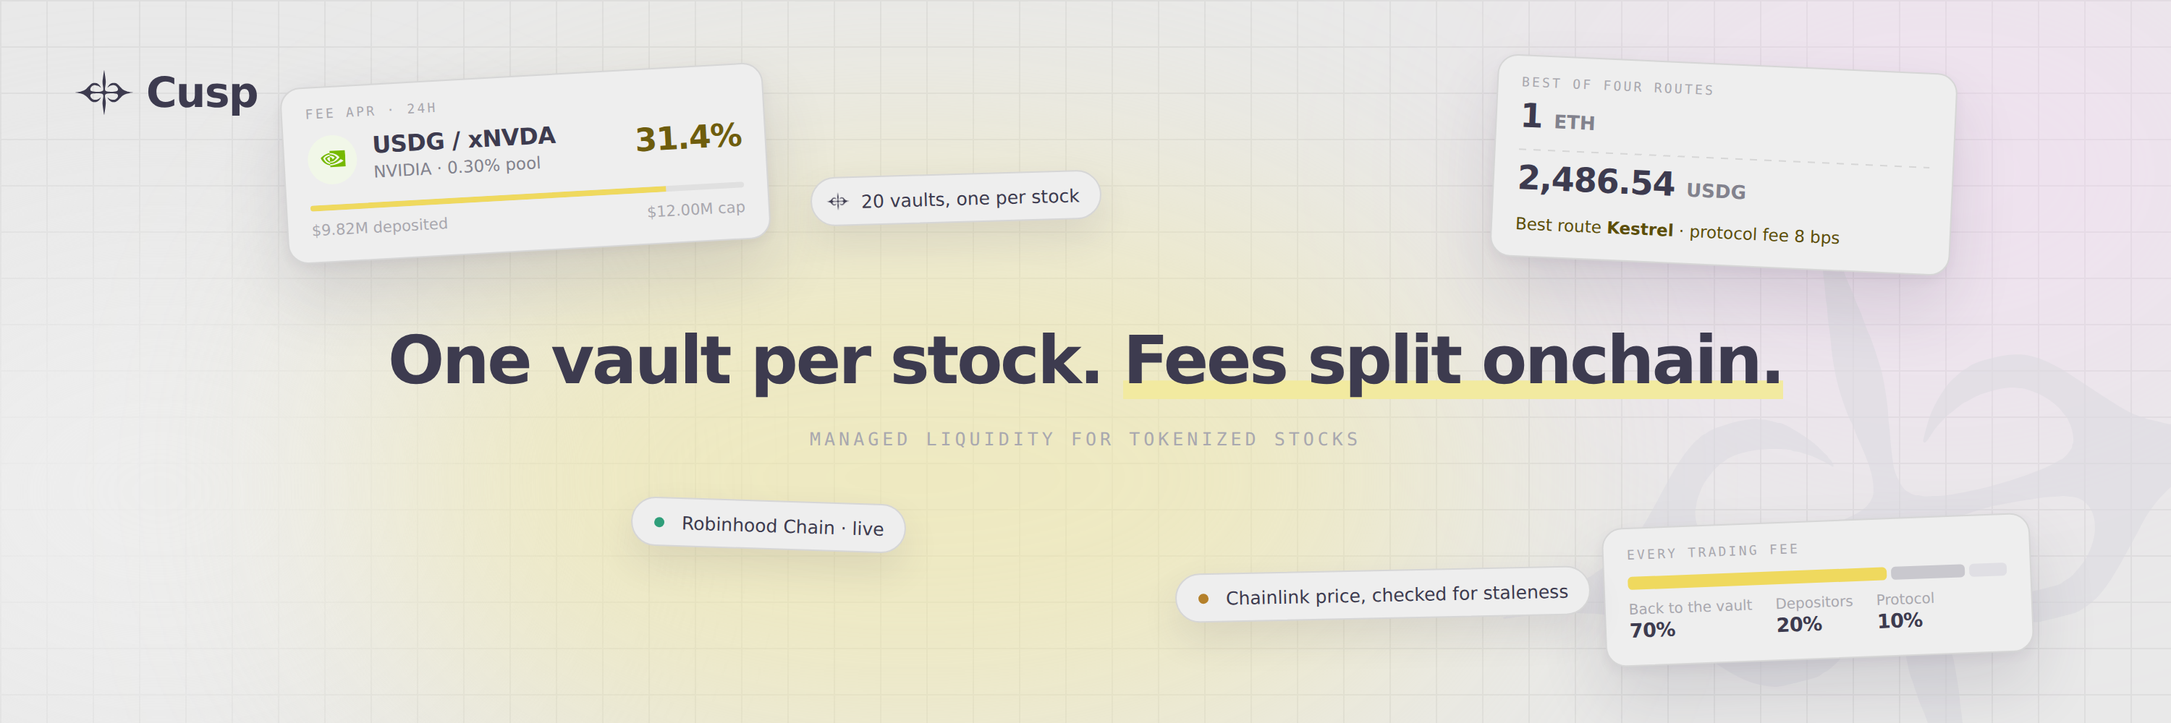
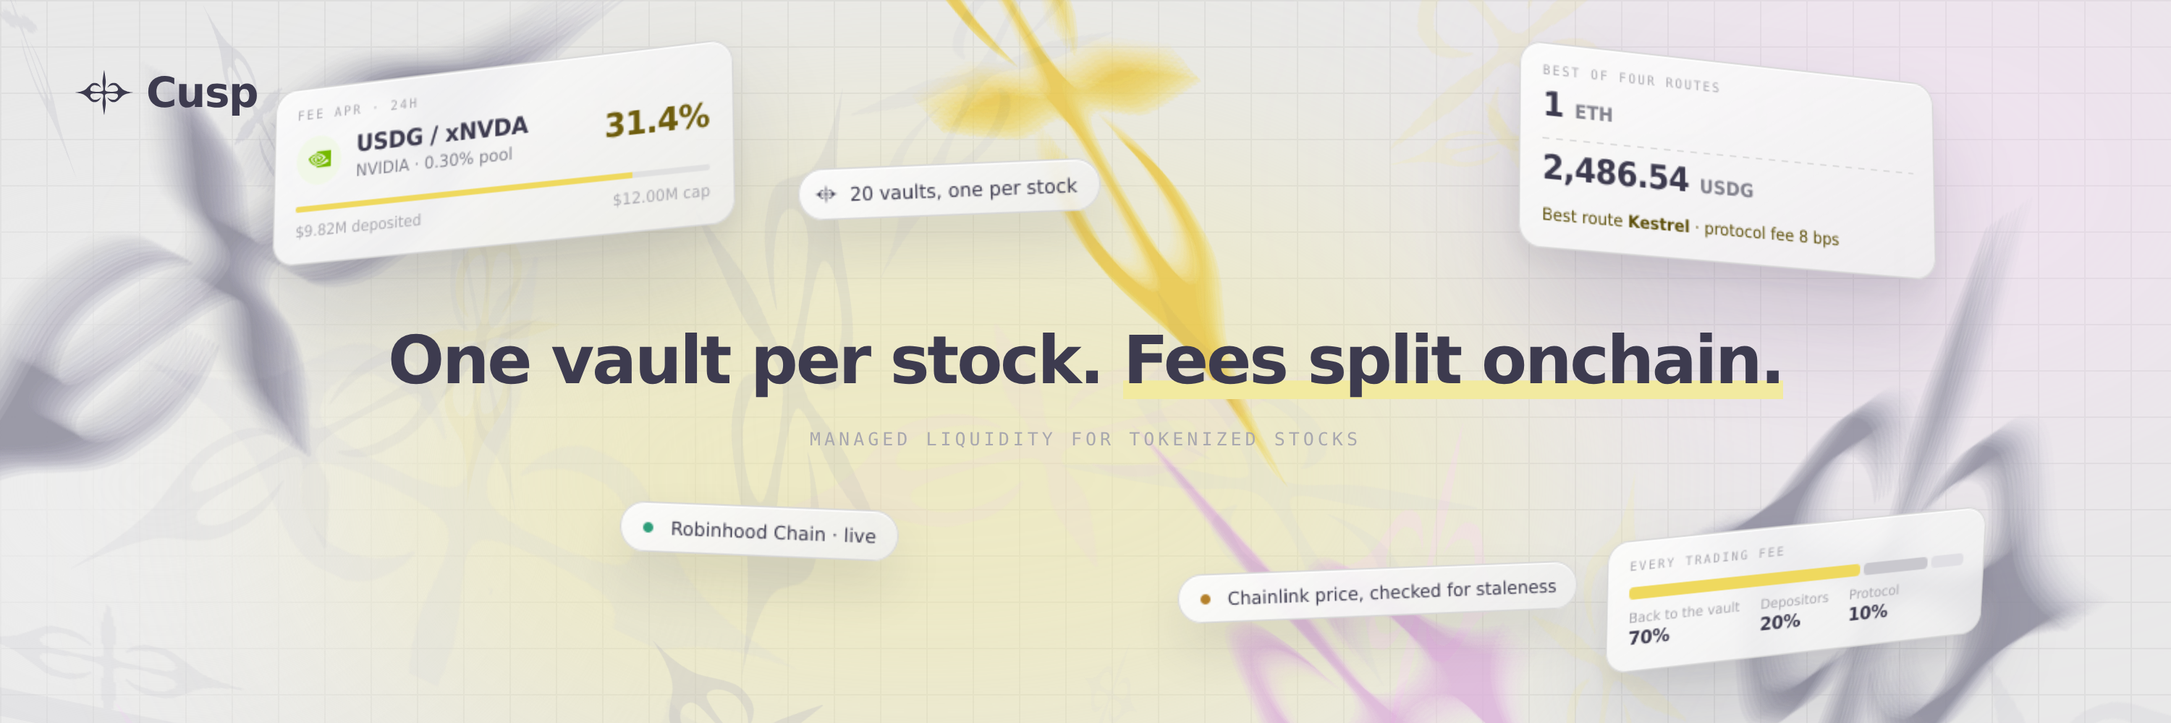
Yellow footer headings, and a header built in real depth
The footer's four column headings — products, platform, resources, legal —
take the accent. They go to weight 700 with it, because a pastel on this grey
needs the extra stroke to hold at 11.8px.

The X header stops being a flat collage. It has a perspective now, and every
card sits on its own plane: the vault row 70px forward and turned in, the
quote 20px back and turned the other way, the fee split 40px behind and
leaning up from below, each pill on its own shallow plane between them. They
are glass rather than card stock — a translucent fill over what is behind
them, a blurred backdrop, a lit top edge, and a shadow whose spread follows
how far back the card sits.

Behind all of it, the mark itself, sixty-four times. Four of those are
extruded stacks — the same path stepped back along a depth axis, opacity and
blur following the step, which is what makes a flat mask read as a solid
rather than a sticker — and the other twenty are loose, each at its own z,
its own pair of out-of-plane rotations and its own uneven scale, so none of
them is the logo straight on and all of them are unmistakably it. Blur stands
in for depth of field.

Claude-Session: https://claude.ai/code/session_01WE3rjawbSAaoLq39GWadM9

diff --git a/cusp-site/brand/x-header.html b/cusp-site/brand/x-header.html
@@ -28,24 +28,31 @@
       linear-gradient(to right, var(--grid) 0 1px, transparent 1px),
       linear-gradient(to bottom, var(--grid) 0 1px, transparent 1px);
     background-size:32px 32px;
+    perspective:1500px; perspective-origin:50% 46%;
+    transform-style:preserve-3d;
   }
-  /* two soft washes, so the ground is not flat grey across 1500px */
-  .glow { position:absolute; border-radius:50%; filter:blur(90px); pointer-events:none; }
-  .g1 { width:760px; height:420px; left:250px; top:120px; background:rgba(242,234,160,.55); }
-  .g2 { width:520px; height:360px; left:1080px; top:-60px; background:rgba(255,207,254,.28); }
-  .g3 { width:460px; height:320px; left:-120px; top:180px; background:rgba(238,238,238,.9); }
 
-  /* the mark, oversized and faint behind everything */
-  .ghost {
-    position:absolute; right:-90px; bottom:-140px; width:560px; height:560px;
-    background:#DCDBE1; opacity:.55;
+  /* ---- the mark, shattered through the depth of the frame ----
+     Thirty copies of the one path, each at its own z, its own pair of
+     out-of-plane rotations and its own uneven scale, so none of them is the
+     logo straight on and all of them are unmistakably it. Blur stands in for
+     depth of field: the far ones are soft, the near ones sharp. */
+  .field { position:absolute; inset:0; transform-style:preserve-3d; pointer-events:none; }
+  .sh {
+    position:absolute; display:block;
     -webkit-mask:url(../mark.svg) center / contain no-repeat;
     mask:url(../mark.svg) center / contain no-repeat;
-    transform:rotate(-14deg);
+    mix-blend-mode:multiply;
   }
 
+  /* two soft washes, so the ground is not flat grey across 1500px */
+  .glow { position:absolute; border-radius:50%; filter:blur(95px); pointer-events:none; }
+  .g1 { width:820px; height:440px; left:230px; top:110px; background:rgba(242,234,160,.5); }
+  .g2 { width:540px; height:380px; left:1060px; top:-70px; background:rgba(255,207,254,.26); }
+  .g3 { width:480px; height:330px; left:-130px; top:170px; background:rgba(238,238,238,.85); }
+
   /* ---- the lockup, top left ---- */
-  .lock { position:absolute; left:52px; top:44px; display:flex; align-items:center; gap:9px; }
+  .lock { position:absolute; left:52px; top:44px; display:flex; align-items:center; gap:9px; z-index:6; }
   .lock i { display:block; width:40px; height:40px; background:var(--band);
             -webkit-mask:url(../mark.svg) center / contain no-repeat;
             mask:url(../mark.svg) center / contain no-repeat; }
@@ -53,27 +60,38 @@
 
   /* ---- the line, on the centre line ---- */
   .say {
-    position:absolute; left:0; right:0; top:224px; text-align:center;
+    position:absolute; left:0; right:0; top:224px; text-align:center; z-index:6;
     font-size:46px; font-weight:600; letter-spacing:-.035em; line-height:1.1;
   }
   .say u { text-decoration:none; box-shadow:inset 0 -.28em 0 var(--accent-fill); }
   .sub {
-    position:absolute; left:0; right:0; top:296px; text-align:center;
+    position:absolute; left:0; right:0; top:296px; text-align:center; z-index:6;
     font-family:var(--mono); font-size:12.5px; letter-spacing:.2em;
     text-transform:uppercase; color:var(--dim);
   }
 
-  /* ---- the floating cards ---- */
+  /* ---- the floating cards, each on its own plane ----
+     Glass rather than solid: a translucent fill over the field, a blurred
+     backdrop, a lit top edge and a shadow whose spread follows how far back
+     the card sits. */
   .card {
-    position:absolute; background:var(--card); border:1px solid var(--line);
-    border-radius:14px; padding:14px 16px 15px;
-    box-shadow:0 24px 46px rgba(61,59,79,.14), 0 3px 8px rgba(61,59,79,.06);
+    position:absolute; z-index:5;
+    background:linear-gradient(150deg, rgba(252,252,252,.94), rgba(238,238,238,.82));
+    border:1px solid rgba(255,255,255,.85);
+    outline:1px solid var(--line); outline-offset:-1px;
+    border-radius:16px; padding:14px 16px 15px;
+    backdrop-filter:blur(7px) saturate(1.15);
+    box-shadow:
+      0 40px 70px rgba(61,59,79,.17),
+      0 8px 18px rgba(61,59,79,.08),
+      inset 0 1px 0 rgba(255,255,255,.9);
   }
   .k { display:block; font-family:var(--mono); font-size:9px; letter-spacing:.18em;
        text-transform:uppercase; color:var(--dim); }
 
-  /* a vault row, top left */
-  .vault { left:196px; top:52px; width:334px; transform:rotate(-3.2deg); }
+  /* a vault row, top left — tilted away at the top, nearest the reader */
+  .vault { left:196px; top:52px; width:334px;
+           transform:translateZ(70px) rotateX(9deg) rotateY(-14deg) rotateZ(-2.4deg); }
   .vault .row { display:flex; align-items:center; gap:11px; }
   .vault .ic { width:34px; height:34px; flex:none; border-radius:50%; background:#F1F7E8;
                display:grid; place-items:center; color:#76B900; }
@@ -87,8 +105,9 @@
   .vault .bar i { display:block; height:100%; width:82%; background:var(--accent-glow); }
   .vault .cap { display:flex; justify-content:space-between; margin-top:8px; font-size:10.5px; color:var(--dim); }
 
-  /* a quote, top right */
-  .quote { right:150px; top:44px; width:318px; transform:rotate(2.6deg); }
+  /* a quote, top right — turned the other way, set further back */
+  .quote { right:150px; top:44px; width:318px;
+           transform:translateZ(20px) rotateX(7deg) rotateY(15deg) rotateZ(2deg); }
   .leg { display:flex; align-items:baseline; gap:8px; margin-top:5px; }
   .leg b { font-size:23px; font-weight:600; letter-spacing:-.025em; }
   .leg span { font-size:13px; font-weight:600; color:var(--muted); }
@@ -96,27 +115,30 @@
   .best { margin-top:11px; font-size:11.5px; color:var(--accent-ink); }
   .best b { font-weight:700; }
 
-  /* the split, bottom right */
-  .split { right:96px; bottom:44px; width:296px; transform:rotate(-2.2deg); }
+  /* the split, bottom right — furthest back, leaning up from below */
+  .split { right:96px; bottom:40px; width:296px;
+           transform:translateZ(-40px) rotateX(-11deg) rotateY(13deg) rotateZ(-1.6deg); }
   .split .bars { display:flex; gap:3px; margin-top:9px; }
   .split .bars i { height:9px; border-radius:3px; }
   .split dl { display:flex; gap:16px; margin-top:9px; }
   .split dt { font-size:10px; color:var(--dim); }
   .split dd { margin:1px 0 0; font-size:13.5px; font-weight:600; letter-spacing:-.02em; }
 
-  /* the pills */
+  /* the pills, on their own shallow planes */
   .pill {
-    position:absolute; display:inline-flex; align-items:center; gap:8px;
+    position:absolute; z-index:5; display:inline-flex; align-items:center; gap:8px;
     padding:8px 14px 8px 10px; border-radius:999px;
-    background:var(--card); border:1px solid var(--line);
-    box-shadow:0 12px 26px rgba(61,59,79,.11);
+    background:linear-gradient(150deg, rgba(252,252,252,.95), rgba(238,238,238,.86));
+    border:1px solid rgba(255,255,255,.85); outline:1px solid var(--line); outline-offset:-1px;
+    backdrop-filter:blur(6px);
+    box-shadow:0 18px 34px rgba(61,59,79,.13), inset 0 1px 0 rgba(255,255,255,.9);
     font-size:12.5px; font-weight:500; color:var(--ink); white-space:nowrap;
   }
   .pill i { width:16px; height:16px; border-radius:50%; flex:none; display:grid; place-items:center; }
   .pill .dot { width:7px; height:7px; border-radius:50%; background:#2F9E7A; }
-  .p1 { left:560px; top:120px; transform:rotate(-1.6deg); }
-  .p2 { left:436px; bottom:120px; transform:rotate(1.8deg); }
-  .p3 { left:812px; bottom:72px; transform:rotate(-1.2deg); }
+  .p1 { left:560px; top:120px; transform:translateZ(90px) rotateY(-9deg) rotateZ(-1.6deg); }
+  .p2 { left:436px; bottom:120px; transform:translateZ(46px) rotateY(-5deg) rotateZ(1.8deg); }
+  .p3 { left:812px; bottom:72px; transform:translateZ(-14px) rotateY(8deg) rotateZ(-1.2deg); }
   .pill .mk { width:16px; height:16px; background:var(--band);
               -webkit-mask:url(../mark.svg) center / contain no-repeat;
               mask:url(../mark.svg) center / contain no-repeat; }
@@ -127,7 +149,73 @@
   <div class="glow g3"></div>
   <div class="glow g1"></div>
   <div class="glow g2"></div>
-  <div class="ghost"></div>
+
+  <div class="field">
+      <i class="sh" style="left:-120px;top:-90px;width:520px;height:520px;background:#C6C5CE;opacity:0.084;filter:blur(9.0px);transform:translateZ(-300px) rotateX(-28deg) rotateY(38deg) rotateZ(-18deg) scale(1.35,0.85)"></i>
+      <i class="sh" style="left:-117px;top:-88px;width:520px;height:520px;background:#C6C5CE;opacity:0.104;filter:blur(8.2px);transform:translateZ(-274px) rotateX(-28deg) rotateY(38deg) rotateZ(-18deg) scale(1.35,0.85)"></i>
+      <i class="sh" style="left:-114px;top:-87px;width:520px;height:520px;background:#C6C5CE;opacity:0.123;filter:blur(7.4px);transform:translateZ(-248px) rotateX(-28deg) rotateY(38deg) rotateZ(-18deg) scale(1.35,0.85)"></i>
+      <i class="sh" style="left:-111px;top:-85px;width:520px;height:520px;background:#C6C5CE;opacity:0.143;filter:blur(6.5px);transform:translateZ(-222px) rotateX(-28deg) rotateY(38deg) rotateZ(-18deg) scale(1.35,0.85)"></i>
+      <i class="sh" style="left:-108px;top:-84px;width:520px;height:520px;background:#C6C5CE;opacity:0.163;filter:blur(5.7px);transform:translateZ(-196px) rotateX(-28deg) rotateY(38deg) rotateZ(-18deg) scale(1.35,0.85)"></i>
+      <i class="sh" style="left:-105px;top:-82px;width:520px;height:520px;background:#C6C5CE;opacity:0.182;filter:blur(4.9px);transform:translateZ(-170px) rotateX(-28deg) rotateY(38deg) rotateZ(-18deg) scale(1.35,0.85)"></i>
+      <i class="sh" style="left:-102px;top:-80px;width:520px;height:520px;background:#C6C5CE;opacity:0.202;filter:blur(4.1px);transform:translateZ(-144px) rotateX(-28deg) rotateY(38deg) rotateZ(-18deg) scale(1.35,0.85)"></i>
+      <i class="sh" style="left:-99px;top:-79px;width:520px;height:520px;background:#C6C5CE;opacity:0.221;filter:blur(3.3px);transform:translateZ(-118px) rotateX(-28deg) rotateY(38deg) rotateZ(-18deg) scale(1.35,0.85)"></i>
+      <i class="sh" style="left:-96px;top:-77px;width:520px;height:520px;background:#C6C5CE;opacity:0.241;filter:blur(2.5px);transform:translateZ(-92px) rotateX(-28deg) rotateY(38deg) rotateZ(-18deg) scale(1.35,0.85)"></i>
+      <i class="sh" style="left:-93px;top:-76px;width:520px;height:520px;background:#C6C5CE;opacity:0.261;filter:blur(1.6px);transform:translateZ(-66px) rotateX(-28deg) rotateY(38deg) rotateZ(-18deg) scale(1.35,0.85)"></i>
+      <i class="sh" style="left:-90px;top:-74px;width:520px;height:520px;background:#C6C5CE;opacity:0.28;filter:blur(0.8px);transform:translateZ(-40px) rotateX(-28deg) rotateY(38deg) rotateZ(-18deg) scale(1.35,0.85)"></i>
+      <i class="sh" style="left:-87px;top:-72px;width:520px;height:520px;background:#C6C5CE;opacity:0.3;filter:blur(0.0px);transform:translateZ(-14px) rotateX(-28deg) rotateY(38deg) rotateZ(-18deg) scale(1.35,0.85)"></i>
+      <i class="sh" style="left:1090px;top:150px;width:470px;height:470px;background:#BFBEC9;opacity:0.073;filter:blur(9.0px);transform:translateZ(-300px) rotateX(22deg) rotateY(-42deg) rotateZ(24deg) scale(0.85,1.45)"></i>
+      <i class="sh" style="left:1087px;top:152px;width:470px;height:470px;background:#BFBEC9;opacity:0.09;filter:blur(8.2px);transform:translateZ(-274px) rotateX(22deg) rotateY(-42deg) rotateZ(24deg) scale(0.85,1.45)"></i>
+      <i class="sh" style="left:1084px;top:154px;width:470px;height:470px;background:#BFBEC9;opacity:0.107;filter:blur(7.4px);transform:translateZ(-248px) rotateX(22deg) rotateY(-42deg) rotateZ(24deg) scale(0.85,1.45)"></i>
+      <i class="sh" style="left:1082px;top:156px;width:470px;height:470px;background:#BFBEC9;opacity:0.124;filter:blur(6.5px);transform:translateZ(-222px) rotateX(22deg) rotateY(-42deg) rotateZ(24deg) scale(0.85,1.45)"></i>
+      <i class="sh" style="left:1079px;top:158px;width:470px;height:470px;background:#BFBEC9;opacity:0.141;filter:blur(5.7px);transform:translateZ(-196px) rotateX(22deg) rotateY(-42deg) rotateZ(24deg) scale(0.85,1.45)"></i>
+      <i class="sh" style="left:1076px;top:160px;width:470px;height:470px;background:#BFBEC9;opacity:0.158;filter:blur(4.9px);transform:translateZ(-170px) rotateX(22deg) rotateY(-42deg) rotateZ(24deg) scale(0.85,1.45)"></i>
+      <i class="sh" style="left:1073px;top:161px;width:470px;height:470px;background:#BFBEC9;opacity:0.175;filter:blur(4.1px);transform:translateZ(-144px) rotateX(22deg) rotateY(-42deg) rotateZ(24deg) scale(0.85,1.45)"></i>
+      <i class="sh" style="left:1070px;top:163px;width:470px;height:470px;background:#BFBEC9;opacity:0.192;filter:blur(3.3px);transform:translateZ(-118px) rotateX(22deg) rotateY(-42deg) rotateZ(24deg) scale(0.85,1.45)"></i>
+      <i class="sh" style="left:1068px;top:165px;width:470px;height:470px;background:#BFBEC9;opacity:0.209;filter:blur(2.5px);transform:translateZ(-92px) rotateX(22deg) rotateY(-42deg) rotateZ(24deg) scale(0.85,1.45)"></i>
+      <i class="sh" style="left:1065px;top:167px;width:470px;height:470px;background:#BFBEC9;opacity:0.226;filter:blur(1.6px);transform:translateZ(-66px) rotateX(22deg) rotateY(-42deg) rotateZ(24deg) scale(0.85,1.45)"></i>
+      <i class="sh" style="left:1062px;top:169px;width:470px;height:470px;background:#BFBEC9;opacity:0.243;filter:blur(0.8px);transform:translateZ(-40px) rotateX(22deg) rotateY(-42deg) rotateZ(24deg) scale(0.85,1.45)"></i>
+      <i class="sh" style="left:1059px;top:171px;width:470px;height:470px;background:#BFBEC9;opacity:0.26;filter:blur(0.0px);transform:translateZ(-14px) rotateX(22deg) rotateY(-42deg) rotateZ(24deg) scale(0.85,1.45)"></i>
+      <i class="sh" style="left:520px;top:-150px;width:400px;height:400px;background:#EFD95E;opacity:0.062;filter:blur(9.0px);transform:translateZ(-300px) rotateX(-40deg) rotateY(-20deg) rotateZ(62deg) scale(1.7,0.7)"></i>
+      <i class="sh" style="left:522px;top:-147px;width:400px;height:400px;background:#EFD95E;opacity:0.079;filter:blur(8.0px);transform:translateZ(-274px) rotateX(-40deg) rotateY(-20deg) rotateZ(62deg) scale(1.7,0.7)"></i>
+      <i class="sh" style="left:524px;top:-145px;width:400px;height:400px;background:#EFD95E;opacity:0.097;filter:blur(7.0px);transform:translateZ(-248px) rotateX(-40deg) rotateY(-20deg) rotateZ(62deg) scale(1.7,0.7)"></i>
+      <i class="sh" style="left:527px;top:-142px;width:400px;height:400px;background:#EFD95E;opacity:0.114;filter:blur(6.0px);transform:translateZ(-222px) rotateX(-40deg) rotateY(-20deg) rotateZ(62deg) scale(1.7,0.7)"></i>
+      <i class="sh" style="left:529px;top:-140px;width:400px;height:400px;background:#EFD95E;opacity:0.132;filter:blur(5.0px);transform:translateZ(-196px) rotateX(-40deg) rotateY(-20deg) rotateZ(62deg) scale(1.7,0.7)"></i>
+      <i class="sh" style="left:531px;top:-137px;width:400px;height:400px;background:#EFD95E;opacity:0.15;filter:blur(4.0px);transform:translateZ(-170px) rotateX(-40deg) rotateY(-20deg) rotateZ(62deg) scale(1.7,0.7)"></i>
+      <i class="sh" style="left:533px;top:-134px;width:400px;height:400px;background:#EFD95E;opacity:0.167;filter:blur(3.0px);transform:translateZ(-144px) rotateX(-40deg) rotateY(-20deg) rotateZ(62deg) scale(1.7,0.7)"></i>
+      <i class="sh" style="left:535px;top:-132px;width:400px;height:400px;background:#EFD95E;opacity:0.185;filter:blur(2.0px);transform:translateZ(-118px) rotateX(-40deg) rotateY(-20deg) rotateZ(62deg) scale(1.7,0.7)"></i>
+      <i class="sh" style="left:538px;top:-129px;width:400px;height:400px;background:#EFD95E;opacity:0.202;filter:blur(1.0px);transform:translateZ(-92px) rotateX(-40deg) rotateY(-20deg) rotateZ(62deg) scale(1.7,0.7)"></i>
+      <i class="sh" style="left:540px;top:-127px;width:400px;height:400px;background:#EFD95E;opacity:0.22;filter:blur(0.0px);transform:translateZ(-66px) rotateX(-40deg) rotateY(-20deg) rotateZ(62deg) scale(1.7,0.7)"></i>
+      <i class="sh" style="left:760px;top:300px;width:430px;height:430px;background:#E6C7E5;opacity:0.056;filter:blur(9.0px);transform:translateZ(-300px) rotateX(34deg) rotateY(30deg) rotateZ(-48deg) scale(0.7,1.6)"></i>
+      <i class="sh" style="left:758px;top:298px;width:430px;height:430px;background:#E6C7E5;opacity:0.072;filter:blur(8.0px);transform:translateZ(-274px) rotateX(34deg) rotateY(30deg) rotateZ(-48deg) scale(0.7,1.6)"></i>
+      <i class="sh" style="left:755px;top:296px;width:430px;height:430px;background:#E6C7E5;opacity:0.088;filter:blur(7.0px);transform:translateZ(-248px) rotateX(34deg) rotateY(30deg) rotateZ(-48deg) scale(0.7,1.6)"></i>
+      <i class="sh" style="left:753px;top:294px;width:430px;height:430px;background:#E6C7E5;opacity:0.104;filter:blur(6.0px);transform:translateZ(-222px) rotateX(34deg) rotateY(30deg) rotateZ(-48deg) scale(0.7,1.6)"></i>
+      <i class="sh" style="left:750px;top:292px;width:430px;height:430px;background:#E6C7E5;opacity:0.12;filter:blur(5.0px);transform:translateZ(-196px) rotateX(34deg) rotateY(30deg) rotateZ(-48deg) scale(0.7,1.6)"></i>
+      <i class="sh" style="left:748px;top:290px;width:430px;height:430px;background:#E6C7E5;opacity:0.136;filter:blur(4.0px);transform:translateZ(-170px) rotateX(34deg) rotateY(30deg) rotateZ(-48deg) scale(0.7,1.6)"></i>
+      <i class="sh" style="left:746px;top:287px;width:430px;height:430px;background:#E6C7E5;opacity:0.152;filter:blur(3.0px);transform:translateZ(-144px) rotateX(34deg) rotateY(30deg) rotateZ(-48deg) scale(0.7,1.6)"></i>
+      <i class="sh" style="left:743px;top:285px;width:430px;height:430px;background:#E6C7E5;opacity:0.168;filter:blur(2.0px);transform:translateZ(-118px) rotateX(34deg) rotateY(30deg) rotateZ(-48deg) scale(0.7,1.6)"></i>
+      <i class="sh" style="left:741px;top:283px;width:430px;height:430px;background:#E6C7E5;opacity:0.184;filter:blur(1.0px);transform:translateZ(-92px) rotateX(34deg) rotateY(30deg) rotateZ(-48deg) scale(0.7,1.6)"></i>
+      <i class="sh" style="left:738px;top:281px;width:430px;height:430px;background:#E6C7E5;opacity:0.2;filter:blur(0.0px);transform:translateZ(-66px) rotateX(34deg) rotateY(30deg) rotateZ(-48deg) scale(0.7,1.6)"></i>
+      <i class="sh" style="left:982px;top:37px;width:120px;height:120px;background:#F2EAA0;opacity:0.201;filter:blur(1.9px);transform:translateZ(-128px) rotateX(-40deg) rotateY(-21deg) rotateZ(-29deg) scale(1.74,0.74)"></i>
+      <i class="sh" style="left:368px;top:84px;width:359px;height:359px;background:#B6B5C1;opacity:0.197;filter:blur(5.4px);transform:translateZ(50px) rotateX(24deg) rotateY(67deg) rotateZ(-71deg) scale(1.52,1.31)"></i>
+      <i class="sh" style="left:384px;top:448px;width:192px;height:192px;background:#C6C5CE;opacity:0.13;filter:blur(4.4px);transform:translateZ(-350px) rotateX(25deg) rotateY(10deg) rotateZ(74deg) scale(0.73,1.67)"></i>
+      <i class="sh" style="left:29px;top:456px;width:204px;height:204px;background:#FFCFFE;opacity:0.228;filter:blur(4.9px);transform:translateZ(-372px) rotateX(53deg) rotateY(37deg) rotateZ(-43deg) scale(1.33,1.19)"></i>
+      <i class="sh" style="left:112px;top:14px;width:133px;height:133px;background:#B6B5C1;opacity:0.289;filter:blur(5.0px);transform:translateZ(-296px) rotateX(1deg) rotateY(50deg) rotateZ(52deg) scale(1.45,0.63)"></i>
+      <i class="sh" style="left:1014px;top:364px;width:196px;height:196px;background:#F2EAA0;opacity:0.205;filter:blur(4.5px);transform:translateZ(1px) rotateX(17deg) rotateY(52deg) rotateZ(-79deg) scale(1.57,1.17)"></i>
+      <i class="sh" style="left:1311px;top:452px;width:198px;height:198px;background:#CFCED6;opacity:0.278;filter:blur(3.4px);transform:translateZ(-256px) rotateX(1deg) rotateY(-16deg) rotateZ(-22deg) scale(1.77,1.3)"></i>
+      <i class="sh" style="left:244px;top:145px;width:177px;height:177px;background:#C6C5CE;opacity:0.142;filter:blur(1.6px);transform:translateZ(-139px) rotateX(30deg) rotateY(-62deg) rotateZ(73deg) scale(1.97,0.9)"></i>
+      <i class="sh" style="left:187px;top:84px;width:294px;height:294px;background:#E7DE9B;opacity:0.181;filter:blur(6.2px);transform:translateZ(-172px) rotateX(46deg) rotateY(-14deg) rotateZ(-86deg) scale(1.13,0.48)"></i>
+      <i class="sh" style="left:17px;top:400px;width:116px;height:116px;background:#B6B5C1;opacity:0.156;filter:blur(0.4px);transform:translateZ(58px) rotateX(34deg) rotateY(20deg) rotateZ(0deg) scale(1.81,1.09)"></i>
+      <i class="sh" style="left:155px;top:187px;width:337px;height:337px;background:#D3D2DA;opacity:0.187;filter:blur(4.6px);transform:translateZ(-249px) rotateX(-28deg) rotateY(-26deg) rotateZ(14deg) scale(1.54,1.7)"></i>
+      <i class="sh" style="left:92px;top:186px;width:240px;height:240px;background:#B6B5C1;opacity:0.126;filter:blur(0.5px);transform:translateZ(-277px) rotateX(36deg) rotateY(-33deg) rotateZ(-9deg) scale(1.64,1.06)"></i>
+      <i class="sh" style="left:547px;top:-81px;width:263px;height:263px;background:#C6C5CE;opacity:0.157;filter:blur(3.9px);transform:translateZ(-251px) rotateX(-57deg) rotateY(49deg) rotateZ(-52deg) scale(1.32,1.72)"></i>
+      <i class="sh" style="left:697px;top:157px;width:360px;height:360px;background:#D3D2DA;opacity:0.192;filter:blur(0.4px);transform:translateZ(-172px) rotateX(53deg) rotateY(34deg) rotateZ(59deg) scale(1.02,1.46)"></i>
+      <i class="sh" style="left:879px;top:300px;width:211px;height:211px;background:#FFCFFE;opacity:0.243;filter:blur(1.0px);transform:translateZ(-263px) rotateX(-13deg) rotateY(4deg) rotateZ(13deg) scale(0.61,1.45)"></i>
+      <i class="sh" style="left:666px;top:379px;width:203px;height:203px;background:#CFCED6;opacity:0.114;filter:blur(5.1px);transform:translateZ(-286px) rotateX(63deg) rotateY(-68deg) rotateZ(67deg) scale(1.24,0.49)"></i>
+      <i class="sh" style="left:-46px;top:-44px;width:118px;height:118px;background:#C6C5CE;opacity:0.33;filter:blur(2.5px);transform:translateZ(-277px) rotateX(-57deg) rotateY(-63deg) rotateZ(42deg) scale(2.07,0.94)"></i>
+      <i class="sh" style="left:577px;top:162px;width:292px;height:292px;background:#F0C9EF;opacity:0.139;filter:blur(1.8px);transform:translateZ(-174px) rotateX(-27deg) rotateY(-36deg) rotateZ(-28deg) scale(1.97,0.82)"></i>
+      <i class="sh" style="left:943px;top:-69px;width:205px;height:205px;background:#EFD95E;opacity:0.125;filter:blur(4.5px);transform:translateZ(-339px) rotateX(22deg) rotateY(30deg) rotateZ(46deg) scale(1.2,1.73)"></i>
+      <i class="sh" style="left:342px;top:349px;width:339px;height:339px;background:#B6B5C1;opacity:0.286;filter:blur(5.9px);transform:translateZ(-197px) rotateX(-40deg) rotateY(8deg) rotateZ(60deg) scale(0.72,0.51)"></i>
+  </div>
 
   <div class="lock"><i></i><b>Cusp</b></div>
 

diff --git a/cusp-site/tokens.css b/cusp-site/tokens.css
@@ -175,7 +175,9 @@ img, svg { display: block; }
 }
 .ft-col { padding: 26px 22px 36px; border-left: 1px dashed var(--line); }
 .ft-col:last-child { border-right: 1px dashed var(--line); }
-.ft-col .k { margin-bottom: 15px; }
+/* the four column headings carry the accent — weight 700 rather than 600,
+   because a pastel on this grey needs the extra stroke to hold at 11.8px */
+.ft-col .k { margin-bottom: 15px; color: var(--accent-glow); font-weight: 700; }
 .ft-col a {
   display: block; padding: 5px 0;
   font-size: 13.4px; letter-spacing: .04em; text-transform: uppercase;
